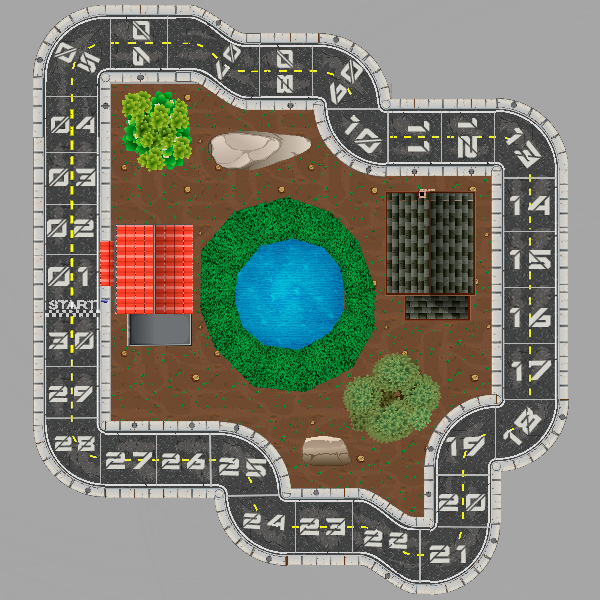
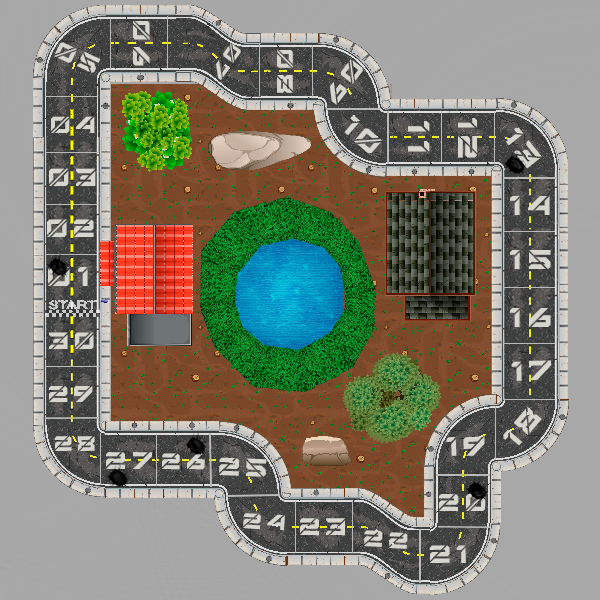
pista (2/3 - buracos), pista no modo adulto e botão volta

diff --git a/Protótipo/cod/imagens.py b/Protótipo/cod/imagens.py
@@ -10,7 +10,7 @@ carro_intro = pygame.image.load('../img/img_jog_car/carro_intro.png')
 #Imagens de fundo
 fundo_menu = pygame.image.load('../img/pistas/fundo-intro.png')
 fundo_infantil = pygame.image.load('../img/pistas/pista-pca-2.png')
-fundo_adulto = pygame.image.load('../img/pistas/pista_dois.jpg')
+fundo_adulto = pygame.image.load('../img/pistas/pista-pca-2.png')
 fundo_intro = pygame.image.load('../img/img_jog_car/fundo_estradinha.png')
 
 #Imagens complementares

diff --git a/Protótipo/cod/protótipo.py b/Protótipo/cod/protótipo.py
@@ -192,9 +192,9 @@ def botao_mutar():
 
 def botao_voltar():
     if escolha_modo == True:
-        janela.blit(botao_volta, (520, 532))
+        janela.blit(botao_volta, (400, 332))
     elif opcoes == True:
-        janela.blit(botao_volta, (315, 257))
+        janela.blit(botao_volta, (200, 60))
 
 #Regras do modo infantil
 def regra_infantil_1():
